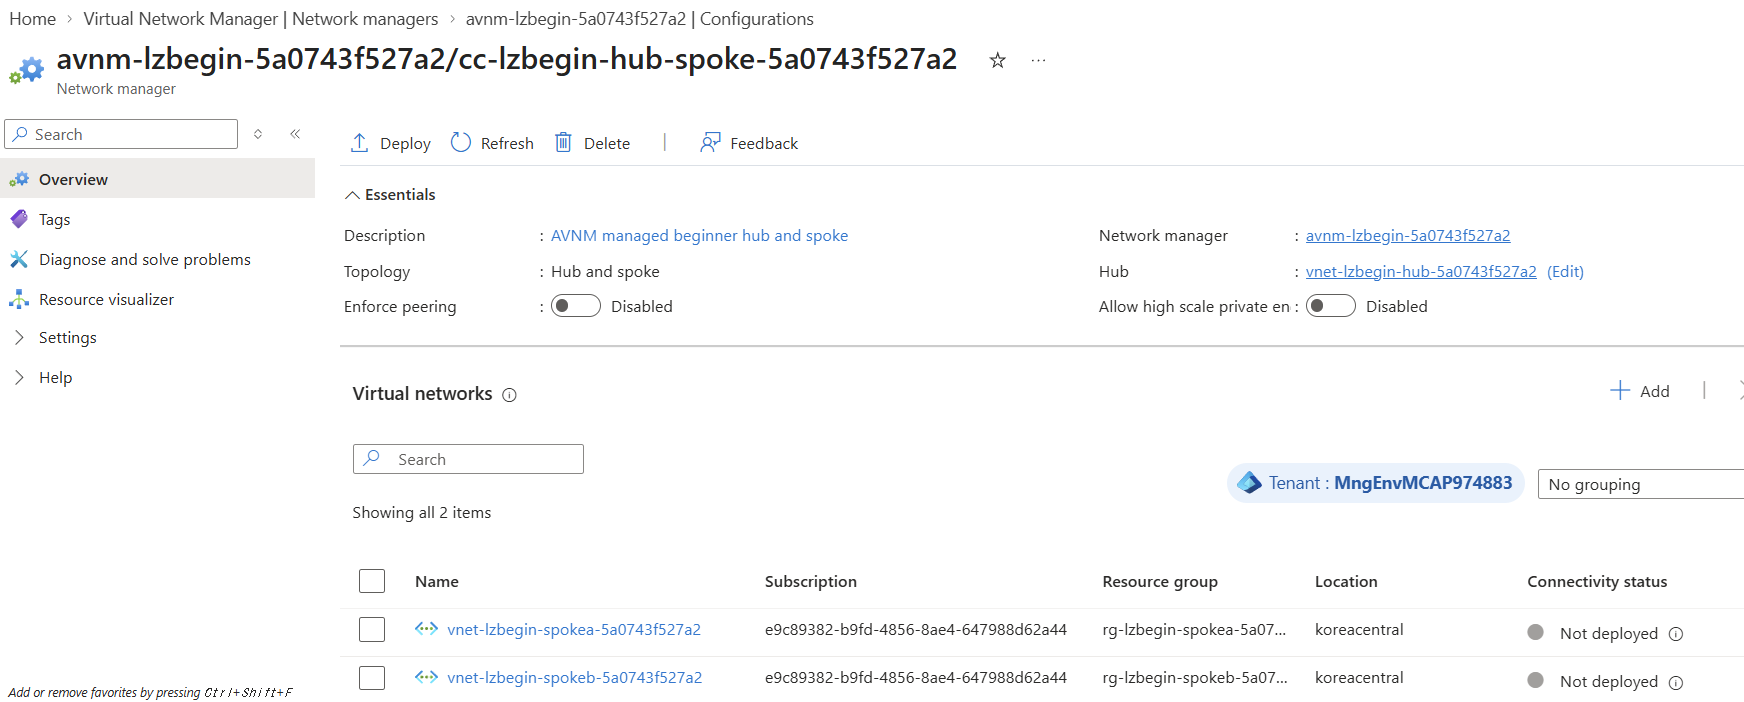
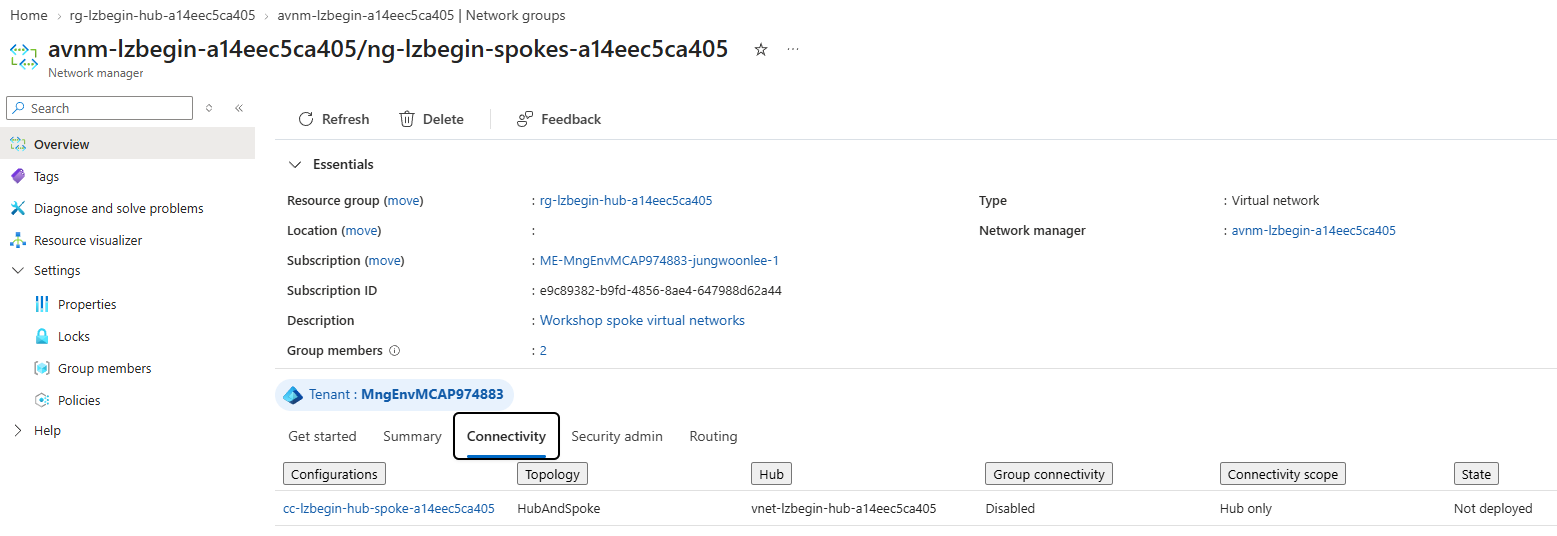
Streamline connectivity checks and refresh workshop screenshots

diff --git a/tests/test_network_docs.py b/tests/test_network_docs.py
@@ -376,42 +376,12 @@ def avnm_cases():
             "--resource-group", rg("hub"),
             "-o", "json",
         ])],
-        "effective-hub": [az([
-            "network", "manager", "list-effective-connectivity-config",
-            "--resource-group", rg("hub"),
-            "--virtual-network-name", vnet("hub"),
-            "-o", "json",
-        ], {"value": []})],
-        "effective-spokea": [az([
-            "network", "manager", "list-effective-connectivity-config",
-            "--resource-group", rg("spokea"),
-            "--virtual-network-name", vnet("spokea"),
-            "-o", "json",
-        ], effective_configuration("spokea"))],
-        "effective-spokeb": [az([
-            "network", "manager", "list-effective-connectivity-config",
-            "--resource-group", rg("spokeb"),
-            "--virtual-network-name", vnet("spokeb"),
-            "-o", "json",
-        ], effective_configuration("spokeb"))],
         "inspect-avnm-peerings-hub": [az([
             "network", "vnet", "peering", "list",
             "-g", rg("hub"),
             "--vnet-name", vnet("hub"),
             "-o", "json",
         ], avnm_peerings("hub"))],
-        "inspect-avnm-peerings-spokea": [az([
-            "network", "vnet", "peering", "list",
-            "-g", rg("spokea"),
-            "--vnet-name", vnet("spokea"),
-            "-o", "json",
-        ], avnm_peerings("spokea"))],
-        "inspect-avnm-peerings-spokeb": [az([
-            "network", "vnet", "peering", "list",
-            "-g", rg("spokeb"),
-            "--vnet-name", vnet("spokeb"),
-            "-o", "json",
-        ], avnm_peerings("spokeb"))],
     }
 
 
@@ -725,40 +695,16 @@ printf 'SHELL_ALIVE\\n'
                 result = self.execute(module, creation, avnm_cases()[creation])
                 self.assertEqual(result.returncode, 0, result.stderr)
 
-    def test_hub_effective_configuration_accepts_only_empty_or_approved_configuration(self):
-        expected_call = avnm_cases()["effective-hub"][0]
-        for value, accepted in (
-            ({"value": []}, True),
-            (effective_configuration("hub"), True),
-            ({"value": [connectivity_config()]}, True),
-            ({"value": [dict(connectivity_config(), id="unexpected")]}, False),
-            ({"value": [dict(connectivity_config(), targetVirtualNetwork={"id": "unexpected"})]}, False),
-            ({"value": [connectivity_config(), connectivity_config()]}, False),
-            ({"value": {}}, False),
-        ):
-            with self.subTest(value=value):
-                result = self.execute(3, "effective-hub", [dict(expected_call, stdout=json.dumps(value))])
-                self.assertEqual(result.returncode == 0, accepted, result.stderr)
-
-    def test_spoke_effective_checks_preserve_exact_ids_and_status(self):
-        for zone in ("spokea", "spokeb"):
-            expected_call = avnm_cases()[f"effective-{zone}"][0]
-            valid = effective_configuration(zone)
-            variants = [
-                (valid, True),
-                ({"value": [dict(valid["value"][0], deleteExistingPeering=False, isGlobal=False)]}, True),
-                ({"value": []}, False),
-                ({"value": {}}, False),
-                ({"value": [dict(valid["value"][0], id="unexpected")]}, False),
-                ({"value": [dict(valid["value"][0], provisioningState="Updating")]}, False),
-                ({"value": [dict(valid["value"][0], hubs=[{"resourceId": "unexpected"}])]}, False),
-                ({"value": [dict(valid["value"][0], appliesToGroups=[{"networkGroupId": "unexpected"}])]}, False),
-            ]
-            for response, accepted in variants:
-                with self.subTest(zone=zone, response=response):
-                    result = self.execute(3, f"effective-{zone}",
-                                          [dict(expected_call, stdout=json.dumps(response))])
-                    self.assertEqual(result.returncode == 0, accepted, result.stderr)
+    def test_module_03_checks_hub_peerings_and_defers_spoke_validation_to_module_04(self):
+        steps = blocks(DOCS[3])
+        self.assertIn("inspect-avnm-peerings-hub", steps)
+        for old in ("effective-hub", "effective-spokea", "effective-spokeb",
+                    "inspect-avnm-peerings-spokea", "inspect-avnm-peerings-spokeb"):
+            self.assertNotIn(old, steps)
+        routing = blocks(DOCS[4])
+        for direction in ("hub-to-spokea", "spokea-to-hub", "hub-to-spokeb", "spokeb-to-hub"):
+            self.assertIn(f"forward-{direction}", routing)
+        self.assertIn("assert_enforced_connectivity", routing["inspect-enforced-connectivity"])
 
     def test_prerequisite_lookup_failures_stop_before_mutation(self):
         for module, cases in ((2, foundation_cases()), (3, connectivity_cases())):

diff --git a/tests/test_stepwise_docs.py b/tests/test_stepwise_docs.py
@@ -590,7 +590,7 @@ class StepwiseDocsTests(unittest.TestCase):
         for module, names in (
             (3, ("avnm-ready", "network-group-create", "member-spokea",
                  "member-spokeb", "connectivity-config-create",
-                 "connectivity-commit", "effective-hub")),
+                 "connectivity-commit", "inspect-avnm-peerings-hub")),
             (4, ("firewall-workspace", "firewall-public-ip", "firewall-http-rule")),
             (5, ("attach-nat-hub", "security-config", "security-collection")),
             (6, ()),

diff --git a/docs/04-connectivity-nsg.md b/docs/04-connectivity-nsg.md
@@ -260,6 +260,12 @@ inspect_firewall_before_rules
 
 `PASS`와 실제 사설 IP가 나옵니다. 아직 VM이 없어 NIC 유효 경로는 확인할 수 없습니다.
 
+생성된 Firewall은 Azure Portal의 **Network security → Azure Firewalls → 이번 실행의 Firewall**
+화면에서도 확인할 수 있습니다. 아래 이미지는 생성 중인 예시로 `Updating`과 사설 IP `-`가
+표시됩니다. 다음 단계로 진행하려면 위 CLI 검사에서 `Succeeded`와 실제 사설 IP를 확인하세요.
+
+![Azure Portal의 Azure Firewalls 목록과 이번 실행의 Firewall Overview에 표시된 Policy, VNet, Subnet 및 생성 중 상태](images/04-firewall-resource-overview.png)
+
 ### 2-7. Policy collection group
 
 👁 **설명**
